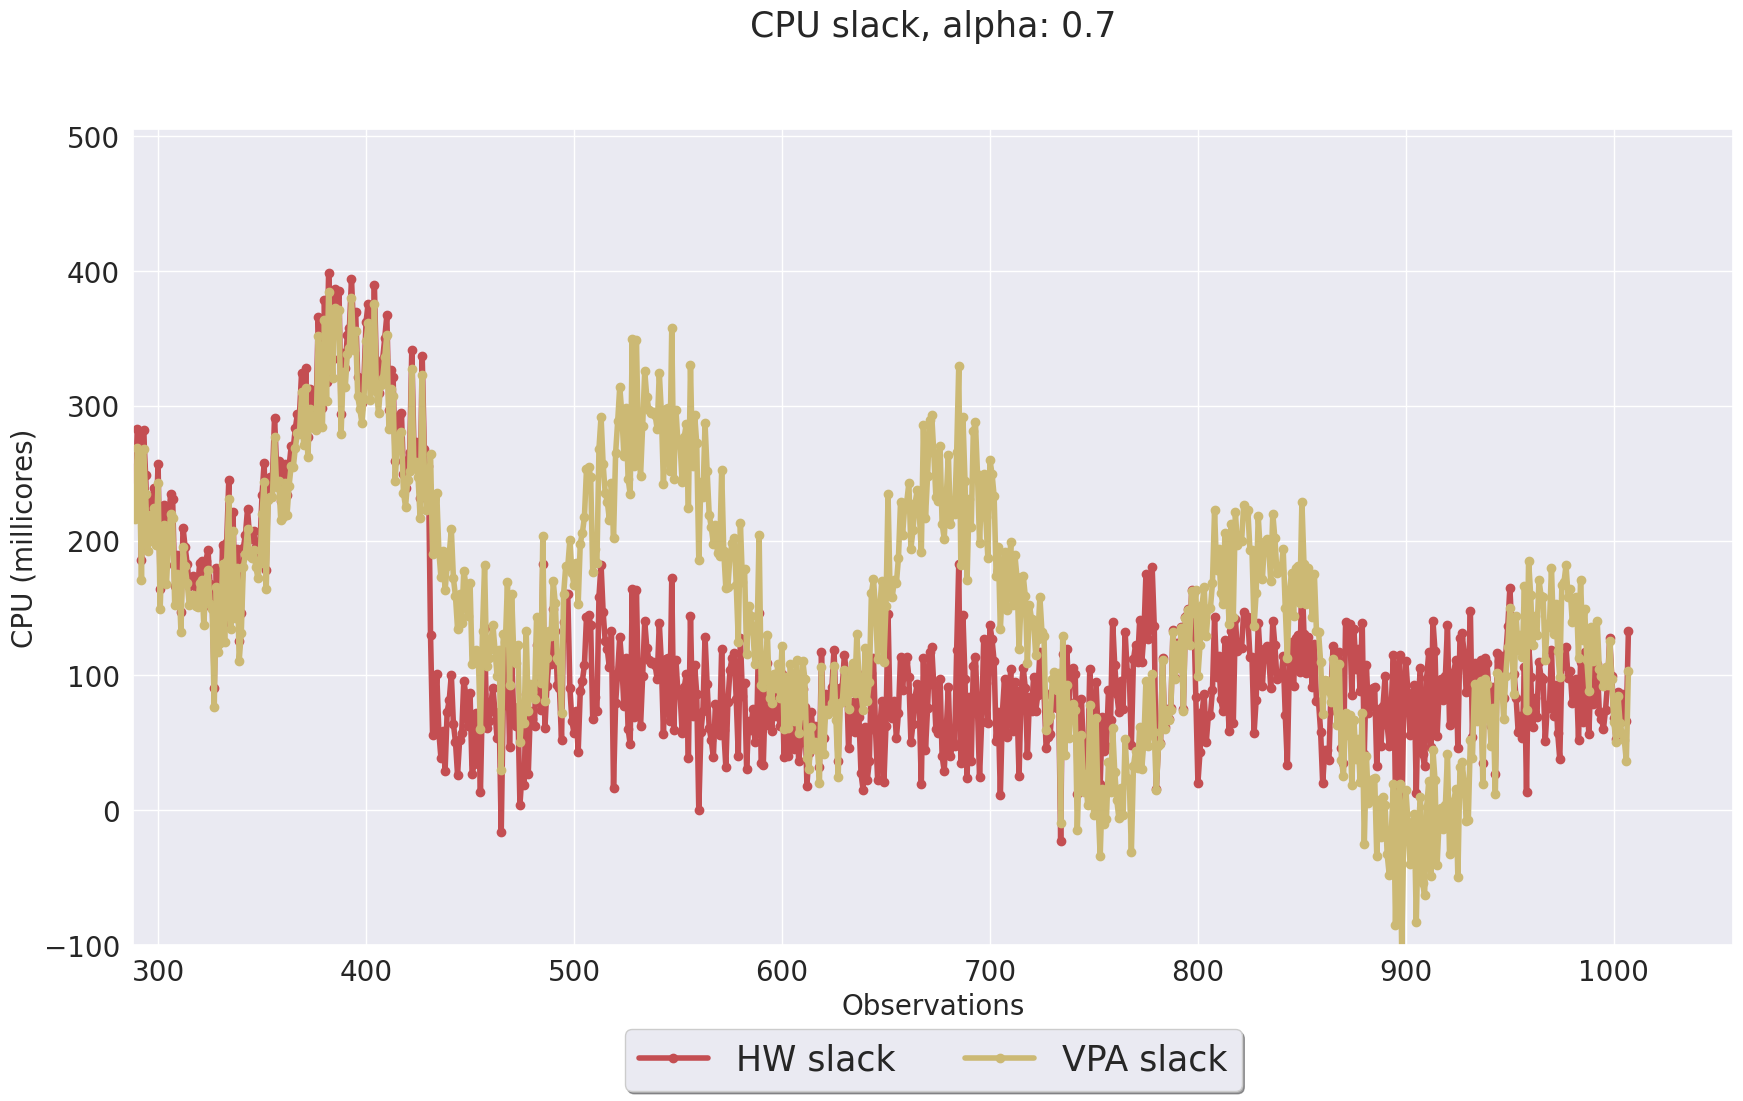
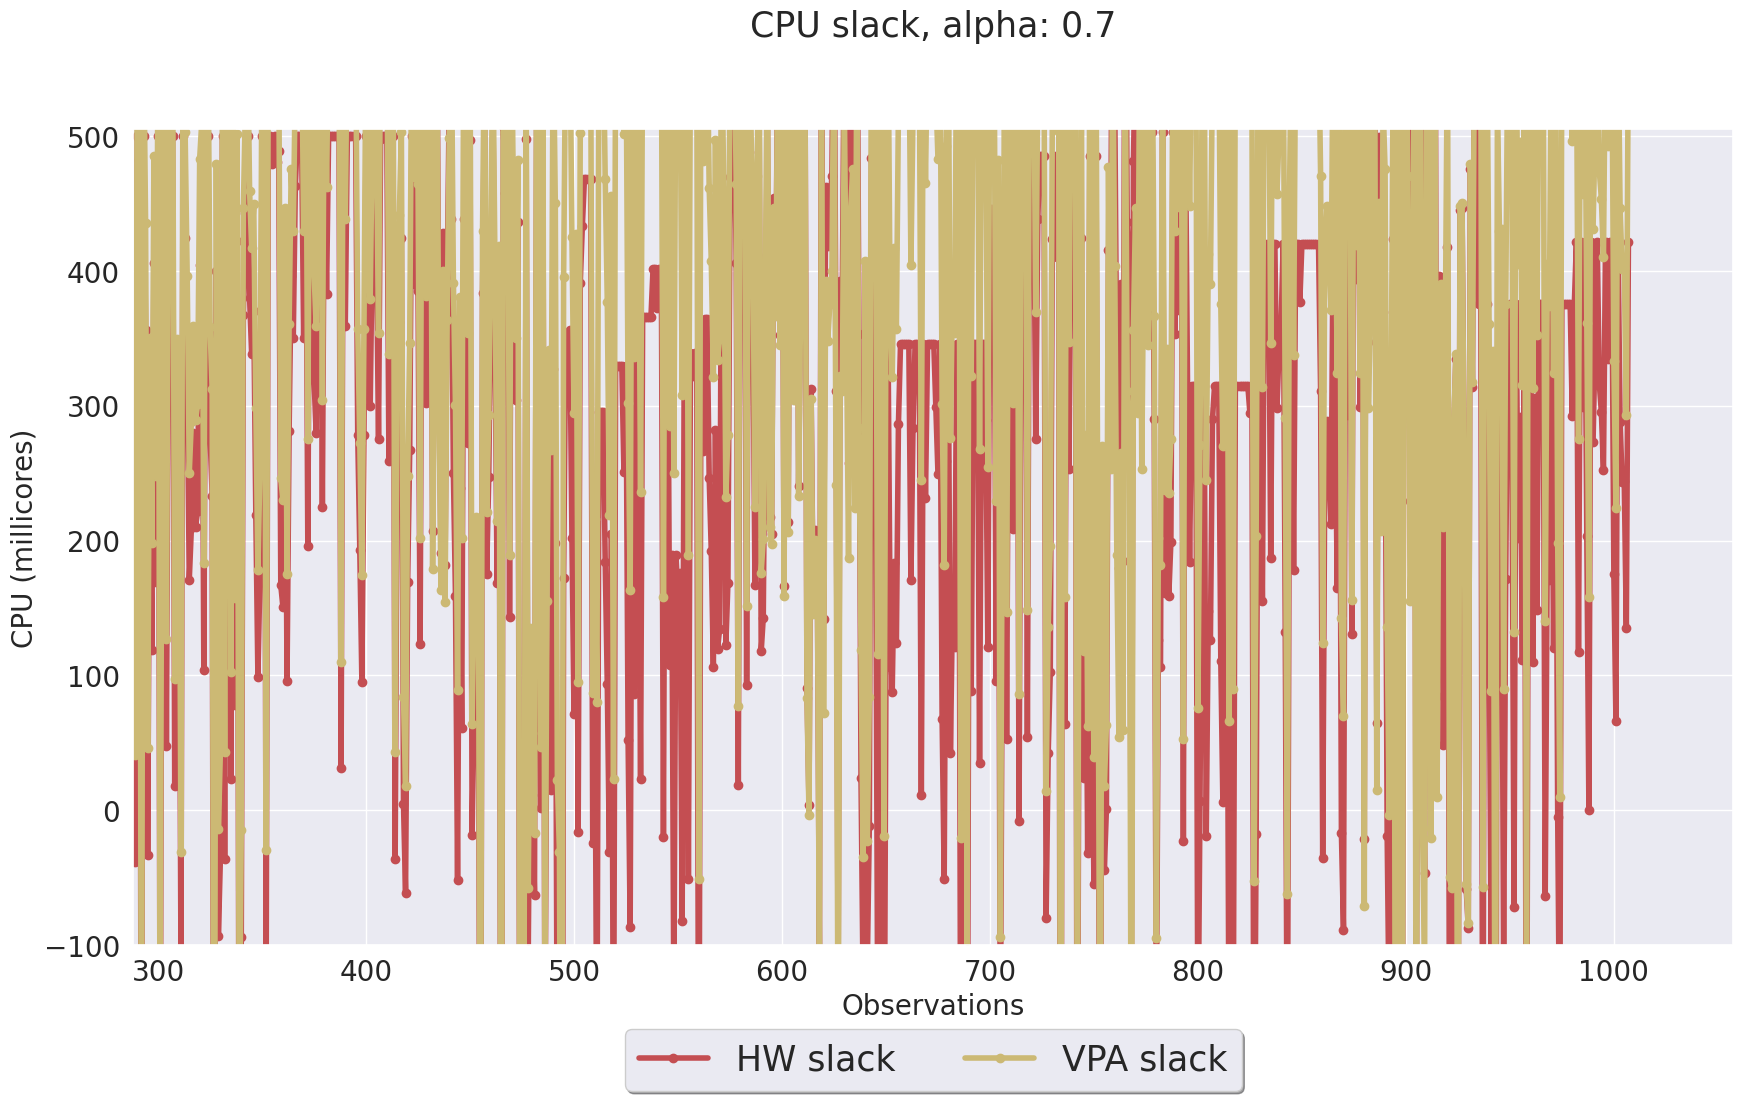
te

diff --git a/kube/python-test/t3.py b/kube/python-test/t3.py
@@ -199,7 +199,7 @@ def main():
 
 
     # Sine wave
-    A = 150
+    A = 250
     per = s_len
     B = 2*np.pi/per
     D = 200
@@ -218,7 +218,7 @@ def main():
     # series = [int(i) for i in series]
     add = np.arange(len(series))
     add = [x*0.3 for x in add]
-    series = [sum(x) for x in zip(add, series)]
+    #series = [sum(x) for x in zip(add, series)]
     series = [0 if i < 0 else i for i in series]
 
     test_last = s_len*2
